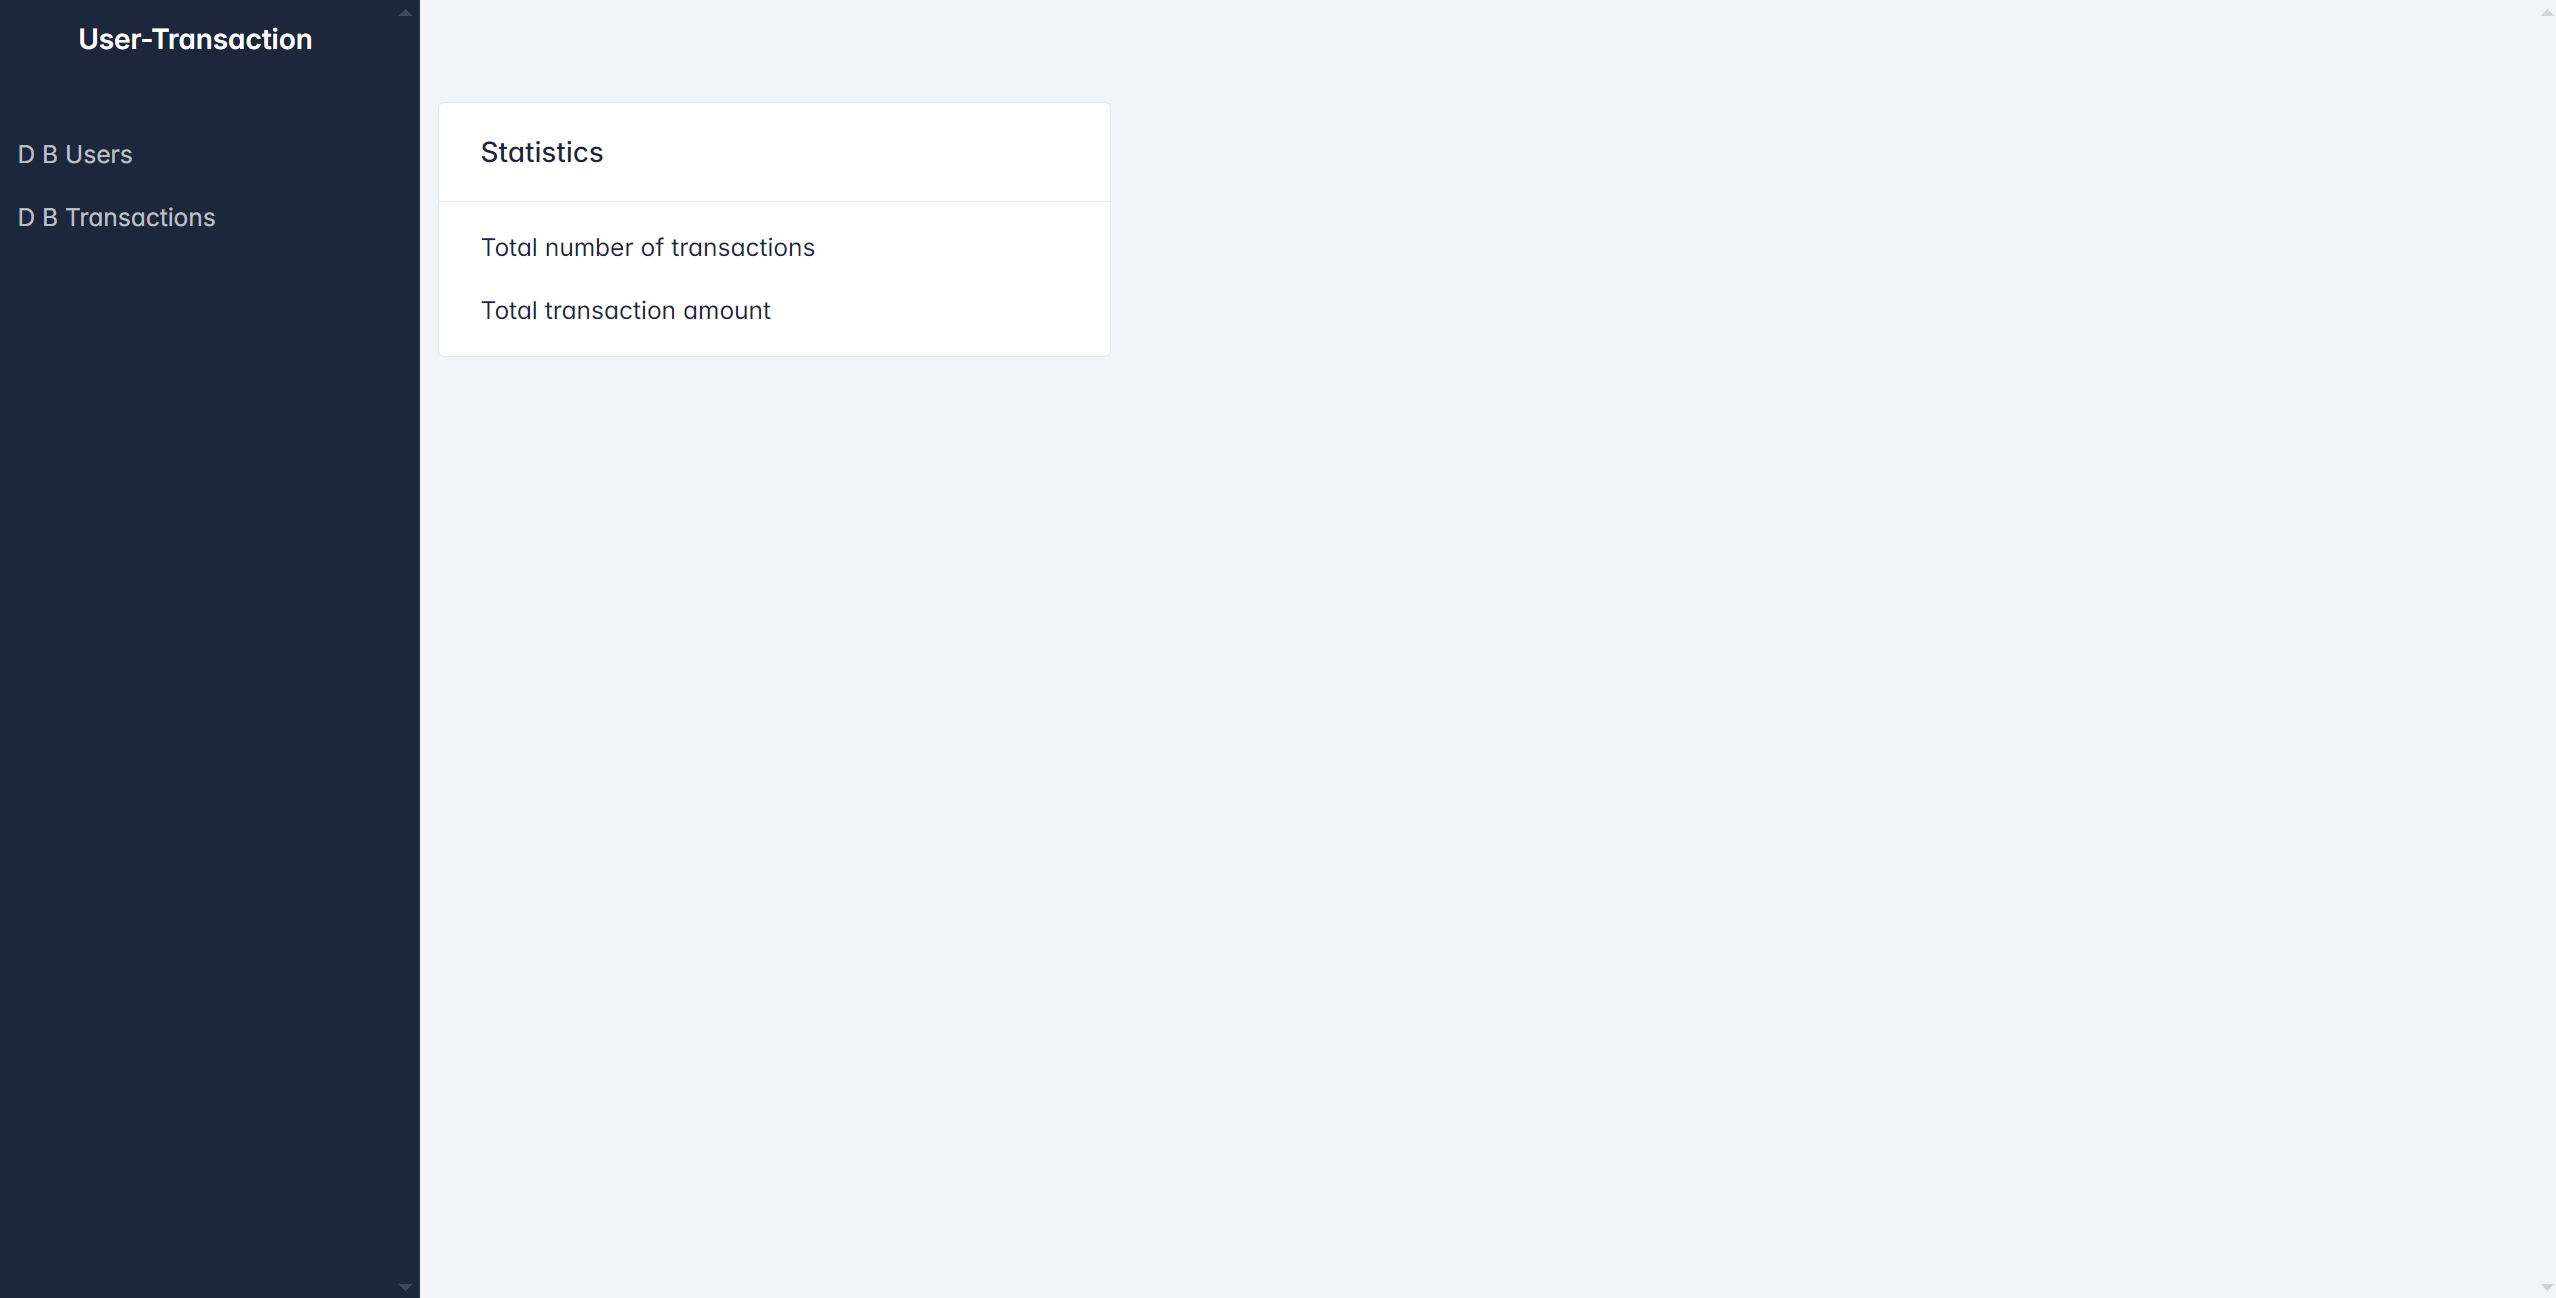
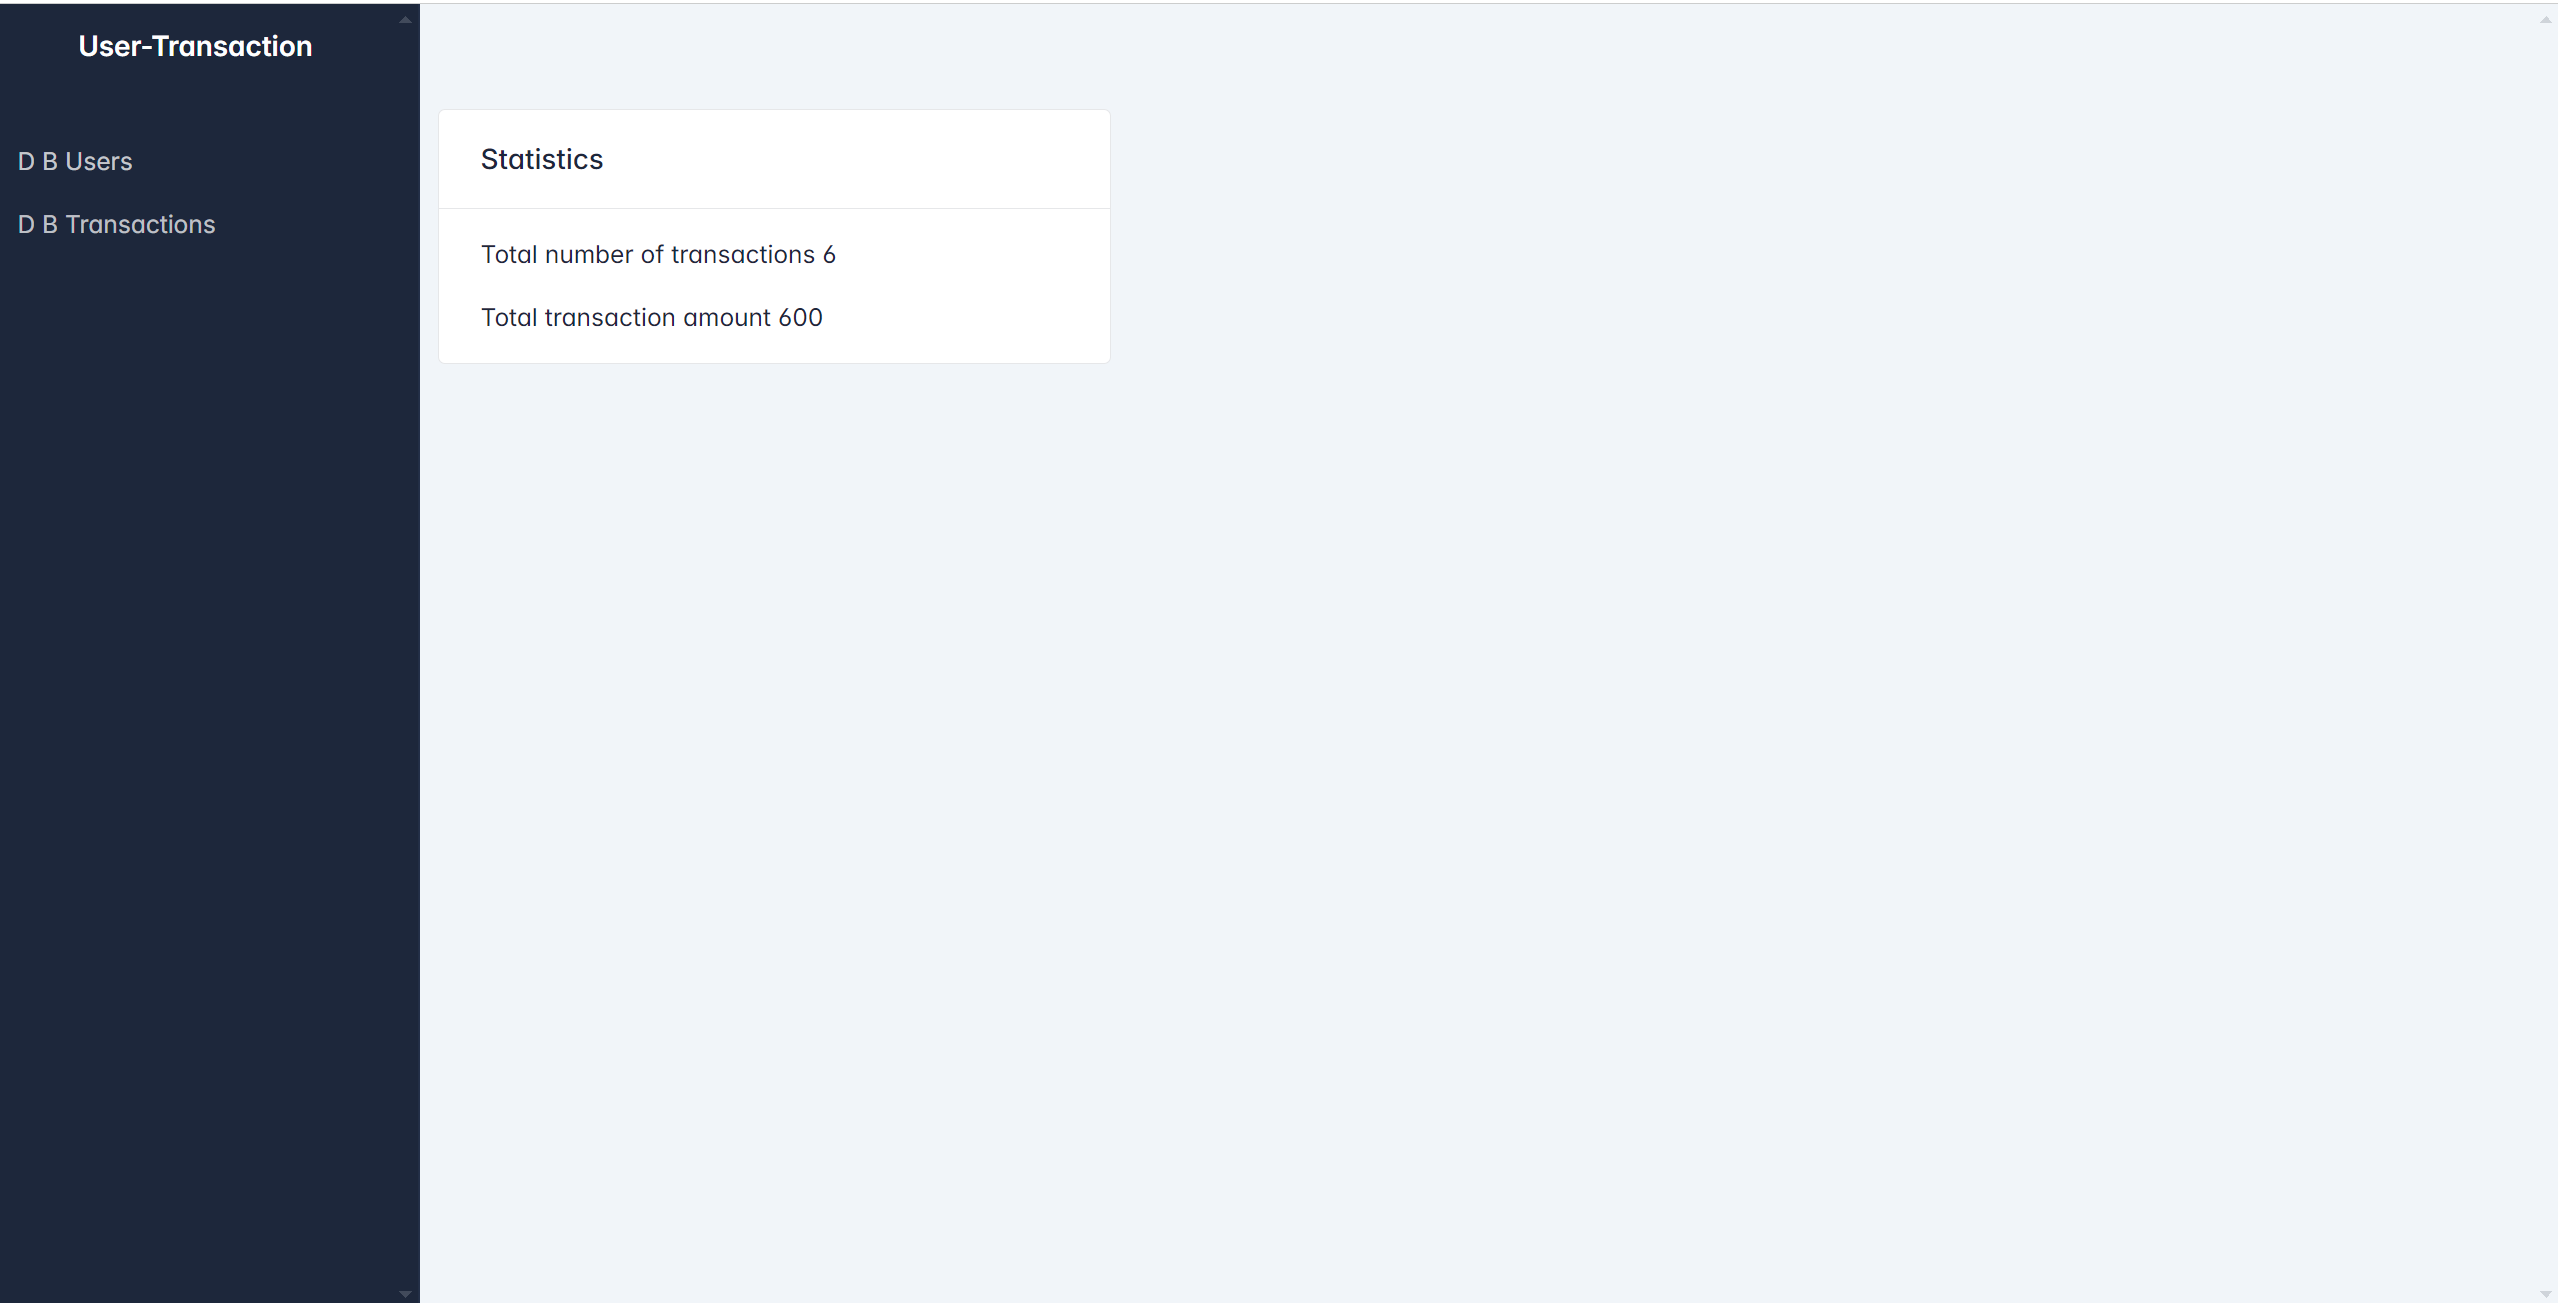
fix: custom view

diff --git a/db/models.py b/db/models.py
@@ -1,9 +1,13 @@
 from sqlalchemy import Column, Integer, String, ForeignKey, Enum
 from sqlalchemy.orm import relationship
+from starlette.requests import Request
+from starlette.responses import Response
+from starlette.templating import Jinja2Templates
 from starlette_admin import CustomView
 from starlette_admin.contrib.sqla import Admin, ModelView
 
-from db.engine import Base, engine
+import crud
+from db.engine import Base, engine, SessionLocal
 from db.transaction_type import TransactionType
 
 
@@ -27,12 +31,30 @@ class DBTransaction(Base):
     user = relationship(DBUser)
 
 
+class StatisticAdminView(CustomView):
+    def total_transactions(self):
+        count = crud.total_transactions(db=SessionLocal())
+        amount = crud.total_amount(db=SessionLocal())
+        return {"count": count, "amount": amount}
+
+    async def render(
+        self, request: Request, templates: Jinja2Templates
+    ) -> Response:
+        """Default methods to render view. Override this methods to add your custom logic."""
+        context = self.total_transactions()
+        context.update({"request": request, "title": self.title(request)})
+
+        return templates.TemplateResponse(self.template_path, context)
+
+
 # Create an empty admin interface
 admin = Admin(engine, title="User-Transaction")
 
 admin.add_view(
-    CustomView(
-        label="Statistic", template_path="statistic.html", add_to_menu=False
+    StatisticAdminView(
+        label="Statistic",
+        template_path="statistic.html",
+        add_to_menu=False,
     )
 )
 admin.add_view(ModelView(DBUser))

diff --git a/main.py b/main.py
@@ -23,13 +23,6 @@ def get_db() -> Session:
         db.close()
 
 
-# @app.get("/test/")
-def total_transactions():
-    count = crud.total_transactions(db=SessionLocal())
-    amount = crud.total_amount(db=SessionLocal())
-    return {"count": count, "amount": amount}
-
-
 @app.post("/users/", response_model=schemas.UserCreateResponse)
 def add_user(user: schemas.UserCreate, db: Session = Depends(get_db)):
     db_user = crud.get_user_by_username(db=db, username=user.username)
